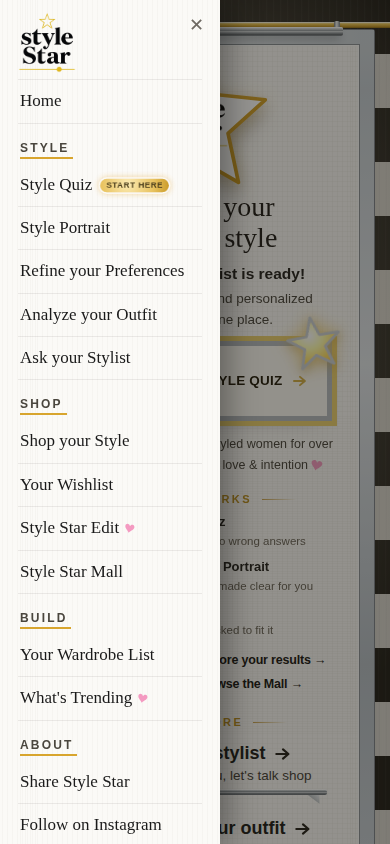
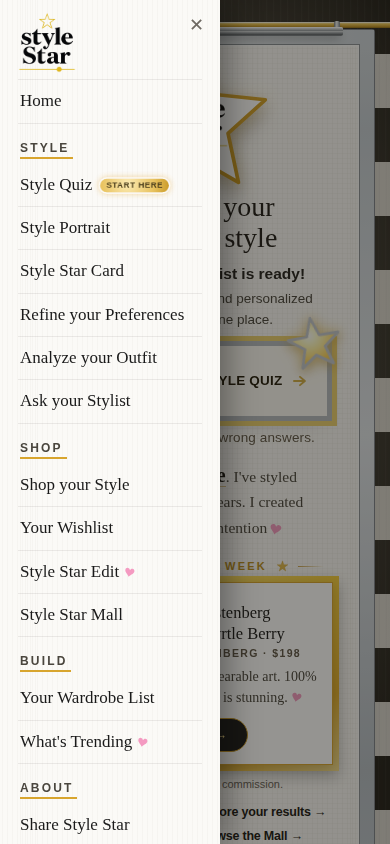
A pink star and a pale yellow row when a conversation is waiting
KATHY, TWICE NOW, and the second telling is what named it: not "the app lost my
chat" but "it was gone or I COULDN'T FIND it." Nothing was ever lost - ss_chat
holds her last 40 messages and openChat restores them - but the resume whisper
lives ONLY on Welcome Back, so a woman who lands anywhere else has nothing
telling her the conversation is still there. Her "the first few times... but the
3rd or 4th" fits iOS discarding the Style Star tab under memory pressure as more
store tabs pile up: a reload drops her on Welcome Back instead of back in her
conversation.

HER DESIGN, and the two marks do different jobs: the PINK STAR says WHO - the
stylist, per her own mark system where a pink star is the stylist working and a
pink heart is Catherine speaking - and the PALE YELLOW FILL says THIS ROW IS
LIVE. Together they read at a glance rather than needing to be spotted. The row
keeps its name.

⚠ THE YELLOW IS MEASURED, NOT BORROWED, and her first instinct would not have
worked. She reached for the wardrobe's own starred-row fill (#FAF1DA), which is
the right family - but that page sits on the app's LINEN, and this drawer's
paper is #FBFAF7, near-white, where the same fill reads 1.08:1 and only whispers.
#F7E9C0 reads 1.16:1 here. Her pick from four rendered depths.
▶ SAME LESSON AS THE WISHLIST FRAME SHE CAUGHT ON 2026-08-10: it is VALUE, not
hue, and a colour that works on one paper can dissolve on another.
[…]

diff --git a/index.html b/index.html
@@ -1728,6 +1728,35 @@ body.menu-open .menu-panel{display:block}
    measure the PARENT'S gap first; the margin is not the only thing spacing it. */
 .hub-ch{width:11px;height:11px;margin-left:0;vertical-align:-1px;transform:rotate(11deg);fill:#F49AC1;flex:none}
 /* "Start here" signpost on Style Quiz, new visitors only (same gold as the New pills) */
+/* ── A CONVERSATION IS WAITING (Kathy, 2026-08-24) ────────────────────────────
+   Her words, twice now: not "the app lost my chat" but "it was gone or I
+   COULDN'T FIND it." Nothing was ever lost — ss_chat holds her last 40 messages
+   and openChat restores them — but the resume whisper lives ONLY on Welcome
+   Back, so a woman who lands anywhere else has nothing telling her the
+   conversation is still there. iOS discarding the Style Star tab under memory
+   pressure (which is what her "the 3rd or 4th time" points at, as more store
+   tabs pile up) drops her on Welcome Back rather than back in her chat.
+   ▶ HER DESIGN, and the two marks do different jobs: the PINK STAR says WHO —
+   the stylist, per her own mark system where a pink star is the stylist working
+   and a pink heart is Catherine speaking — and the PALE YELLOW FILL says THIS
+   ROW IS LIVE. Together they read at a glance instead of needing to be spotted.
+   ⚠ THE YELLOW IS MEASURED, NOT BORROWED. Her instinct was the wardrobe's own
+   starred-row fill (#FAF1DA), which is the right family — but that page sits on
+   the app's LINEN, and this drawer's paper is #FBFAF7, near-white, where the
+   same fill reads 1.08:1 and only whispers. #F7E9C0 reads 1.16:1 here. Her pick
+   of four rendered depths.
+   ⚠ AND THE CONTRAST NUMBER IS NOT A PASS/FAIL, which is worth knowing before
+   anyone "fixes" it against the 4.5:1 bar: this is a FILL, not text. Row ink on
+   it measures 14.4:1. Area also changes perceptibility — a 1px divider at 1.14:1
+   genuinely vanishes (the wardrobe lesson) while a 44px band at 1.08:1 does not.
+   ⚠ THE FILL BLEEDS WITH A BOX-SHADOW, NOT A NEGATIVE MARGIN, and that is
+   deliberate: the panel has 18px of side padding, and widening the ROW would
+   drag its border-bottom out with it, so this one divider would sit wider than
+   every other row's. The shadow paints the fill to the panel edges while the
+   border stays exactly where its neighbours are. Zero layout cost. */
+.menu-cw{display:none;width:11px;height:11px;margin-left:8px;vertical-align:middle;position:relative;top:-1px}
+.menu-row.cw-on .menu-cw{display:inline-block}
+.menu-row.cw-on{background:#F7E9C0;box-shadow:-18px 0 0 #F7E9C0,18px 0 0 #F7E9C0}
 .menu-start{display:none;align-items:center;margin-left:9px;padding:2.5px 6px;border-radius:8px;background:radial-gradient(circle at 40% 35%,#FCE9AC,#E7BE52 62%,#C69214);box-shadow:0 0 0 1.5px #FBFAF7,0 0 6px 1px rgba(233,180,80,.7);color:#3a2c07;font:700 8px/1 'Jost',sans-serif;letter-spacing:.06em;text-transform:uppercase;animation:wbNew 2.4s ease-in-out infinite;vertical-align:2px}
 .menu-start.on{display:inline-flex}
 /* the FAQ / Privacy / Terms letterhead logo sits top-left, exactly under the
@@ -3581,7 +3610,7 @@ body.ss-play .hm-entrance{animation:ssOverlayOut .55s ease 1.6s forwards}
   <div class="menu-row" onclick="menuGo(menuStyleCard)">Style Star Card</div>
   <div class="menu-row" onclick="menuGo(menuRefine)">Refine your Preferences</div>
   <div class="menu-row" onclick="menuGo(showPhoto)">Analyze your Outfit</div>
-  <div class="menu-row" onclick="menuGo(openChat)">Ask your Stylist</div>
+  <div class="menu-row" onclick="menuGo(openChat)">Ask your Stylist<svg class="menu-cw" viewBox="0 0 76 76" fill="none" aria-hidden="true"><polygon points="38,4 46,25 68,25 50.5,38.5 57.5,60 38,47 18.5,60 25.5,38.5 8,25 30,25" fill="#EC4899" stroke="#EC4899" stroke-width="2" stroke-linejoin="round"/></svg></div>
   <div class="menu-grp">Shop</div>
   <div class="menu-row" onclick="menuGo(menuShopStyle)">Shop your Style</div>
   <div class="menu-row" onclick="menuGo(openWishlist)">Your Wishlist</div>
@@ -5340,6 +5369,18 @@ function menuOpen(){
   // name-only save still sees the signpost).
   var p=document.getElementById('menuStartPill');
   if(p)p.classList.toggle('on',!_hasQuizData());
+  /* ⚠ _chatWaiting() IS THE GATE, and reusing it rather than re-deriving one is
+     the point: it already encodes the two rules the resume whisper had to learn
+     the hard way — a conversation is hers only if SHE said something (opening
+     the chat writes the stylist's own greeting, which is an empty room with a
+     hello in it), and it goes stale after the same 6 hours her saved pieces do.
+     A second copy of that logic here would drift from the whisper's, and the two
+     would eventually disagree about whether she has a conversation. */
+  var cw=document.querySelector('.menu-row .menu-cw');
+  if(cw&&cw.parentNode){
+    var on=false; try{on=_chatWaiting()}catch(e){}
+    cw.parentNode.classList.toggle('cw-on',on);
+  }
 }
 // viaPop=true means a popstate already consumed the drawer's history entry;
 // otherwise (the ✕, the scrim, Share) we pop it ourselves so Back stays honest.

diff --git a/scratchpad/menu.js b/scratchpad/menu.js
@@ -350,6 +350,65 @@ ok('no JS errors (card from the menu)', pc.errors.length === 0, pc.errors.join('
 await pc.context().close();
 
 // ---------------------------------------------------------------------------
+console.log("\n5d. A conversation is waiting — the pink star + pale yellow row");
+/* Kathy, twice: "it was gone or I couldn't find it." Nothing was ever lost; the
+   resume whisper just lives only on Welcome Back. */
+{
+  const pw = await newPage(390, true);
+  const mark = () => pw.evaluate(() => {
+    menuOpen();
+    const row = [...document.querySelectorAll('.menu-row')].find(r => r.querySelector('.menu-cw'));
+    if (!row) return null;
+    const st = row.querySelector('.menu-cw');
+    const cs = getComputedStyle(row), ss = getComputedStyle(st);
+    return { on: row.classList.contains('cw-on'), starShown: ss.display !== 'none',
+      bg: cs.backgroundColor, fill: st.querySelector('polygon').getAttribute('fill'),
+      label: row.textContent.trim(), h: row.getBoundingClientRect().height };
+  });
+
+  /* ⚠ THE ASSERTION THAT MATTERS MOST IS THE NEGATIVE ONE. A mark that is
+     always on is not a signal, it is decoration — and worse, it would promise a
+     conversation to a woman who has never had one. The resume whisper learned
+     this by failing hubs.js's "graduated: no whisper ever again". */
+  await pw.evaluate(() => { try{localStorage.removeItem('ss_chat');localStorage.removeItem('ss_chat_t')}catch(e){} });
+  let m = await mark();
+  ok('the row carries the mark markup', m !== null);
+  ok('nothing waiting -> no star, no fill', m && !m.on && !m.starShown, JSON.stringify(m));
+
+  /* A conversation is hers only if SHE said something: opening the chat writes
+     the stylist's own greeting, which is an empty room with a hello in it. */
+  await pw.evaluate(() => {
+    localStorage.setItem('ss_chat', JSON.stringify([{ role: 'assistant', content: 'Hi!' }]));
+    localStorage.setItem('ss_chat_t', String(Date.now()));
+  });
+  m = await mark();
+  ok('the stylist greeting ALONE is not a conversation', m && !m.on, JSON.stringify(m));
+
+  await pw.evaluate(() => {
+    localStorage.setItem('ss_chat', JSON.stringify([
+      { role: 'assistant', content: 'Hi!' }, { role: 'user', content: 'I need a long dress' }]));
+    localStorage.setItem('ss_chat_t', String(Date.now()));
+  });
+  m = await mark();
+  ok('a real conversation -> the star shows', m && m.on && m.starShown, JSON.stringify(m));
+  ok('the row fills pale yellow #F7E9C0', m && m.bg === 'rgb(247, 233, 192)', m && m.bg);
+  /* The SAME pink the chat header's star uses. Her mark system: a pink star is
+     the stylist working, a pink heart is Catherine speaking. */
+  ok('the star is the stylist pink #EC4899', m && m.fill === '#EC4899', m && m.fill);
+  ok('the row still reads "Ask your Stylist"', m && m.label === 'Ask your Stylist', m && m.label);
+  ok('the mark costs the row no height', m && m.h < 46, m && String(m.h));
+
+  /* ⚠ 6 HOURS, the same shelf life her saved pieces get. ss_chat never expires
+     on its own, so without this the mark would greet her about a conversation
+     she had weeks ago — a nag, not a signal. */
+  await pw.evaluate(() => localStorage.setItem('ss_chat_t', String(Date.now() - 7 * 3600 * 1000)));
+  m = await mark();
+  ok('a conversation older than 6 hours goes quiet again', m && !m.on, JSON.stringify(m));
+  ok('no JS errors (chat-waiting mark)', pw.errors.length === 0, pw.errors.join(' | '));
+  await pw.context().close();
+}
+
+// ---------------------------------------------------------------------------
 console.log('\n6. Readability + fit at 360px');
 const p360 = await newPage(360, true);
 await p360.evaluate(() => { show('s-wel'); menuOpen(); });
